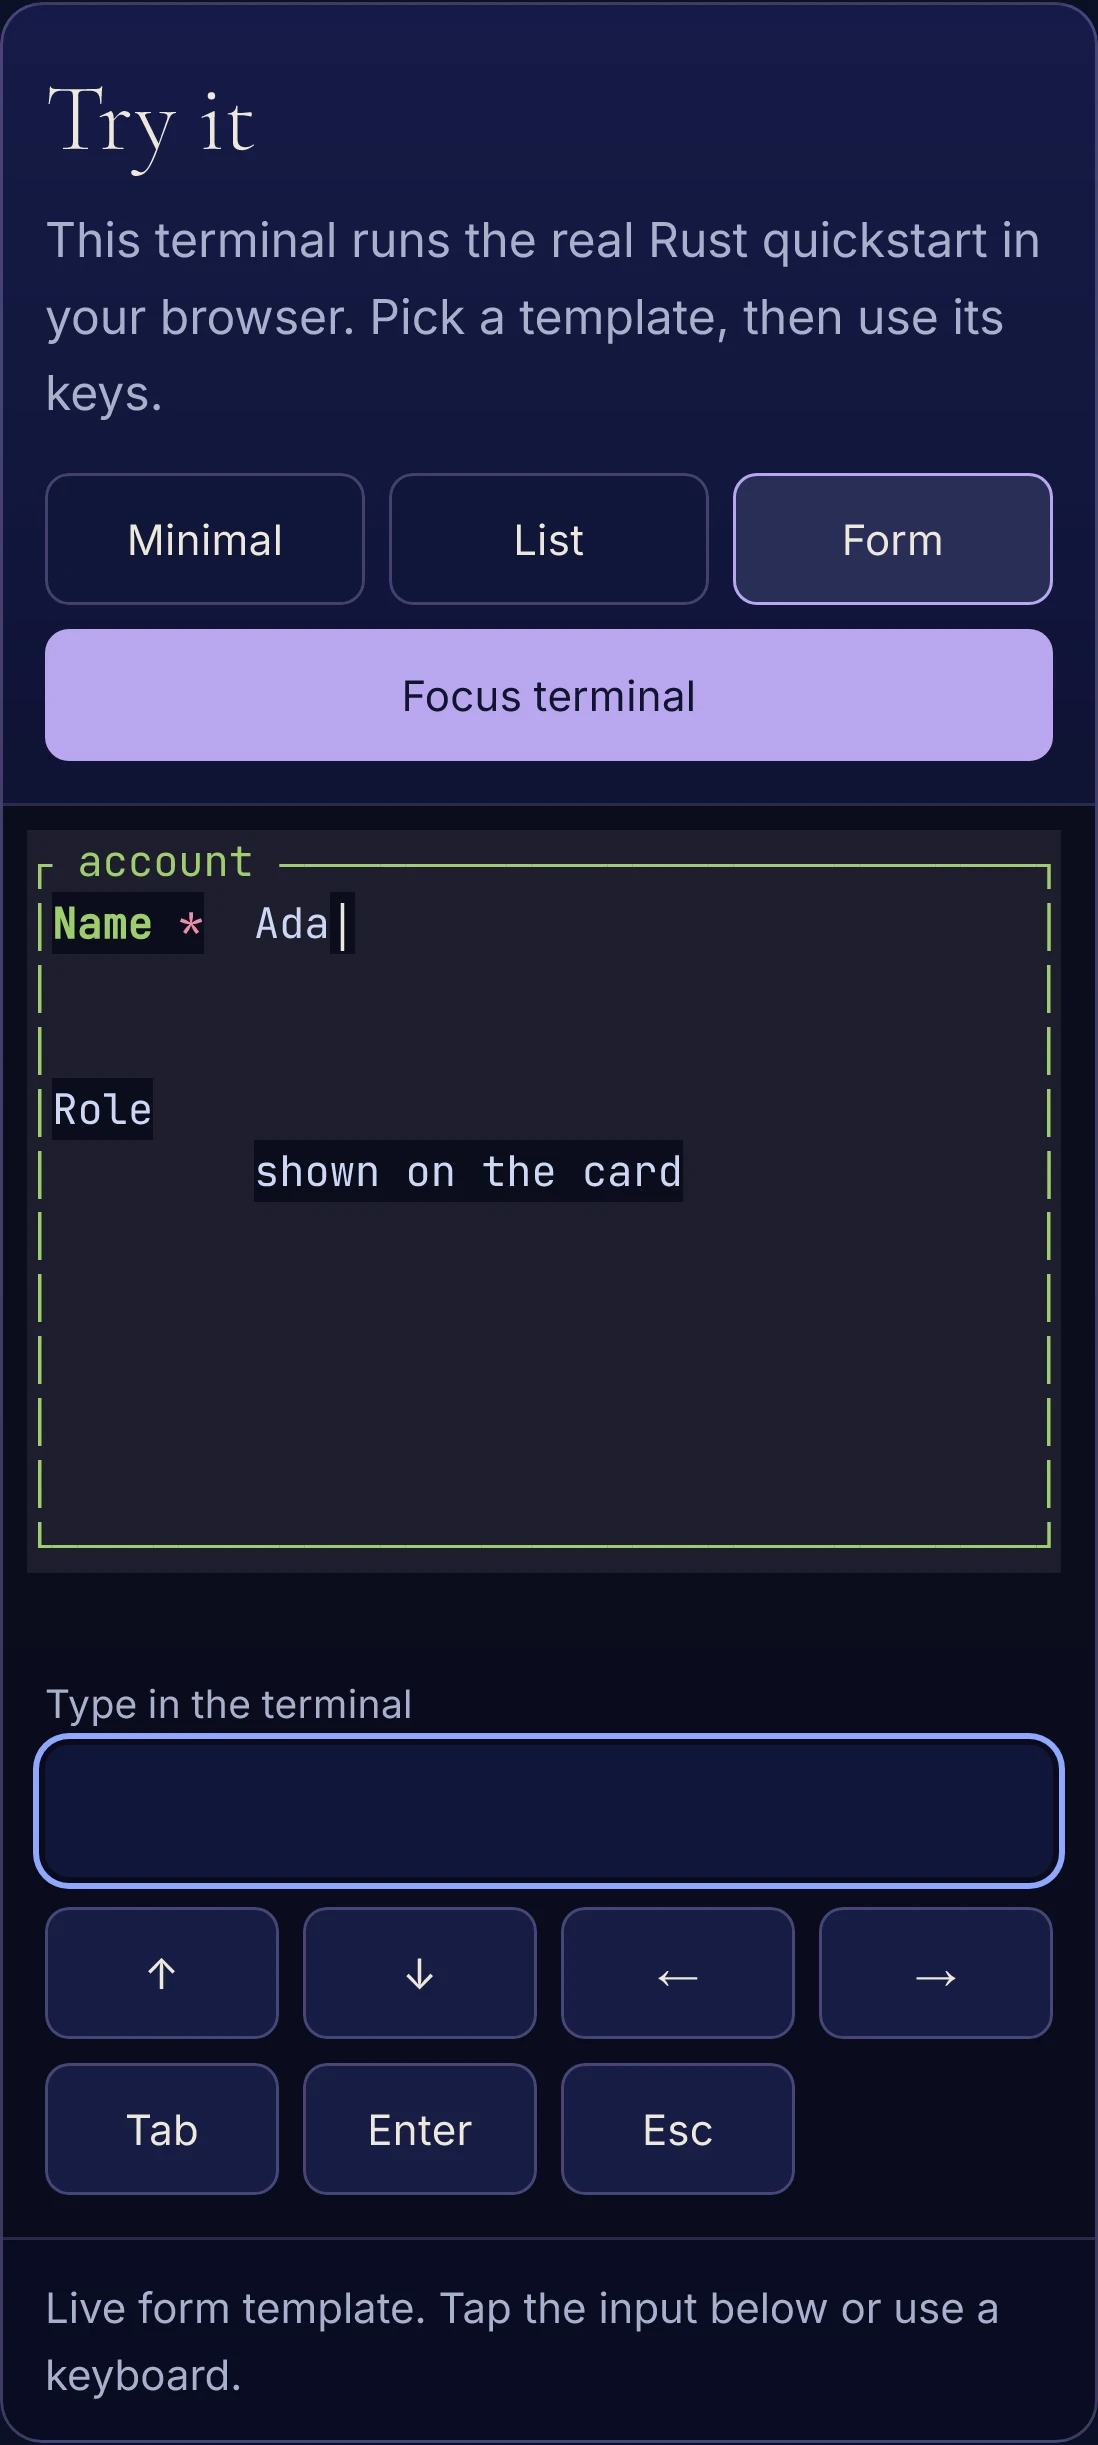
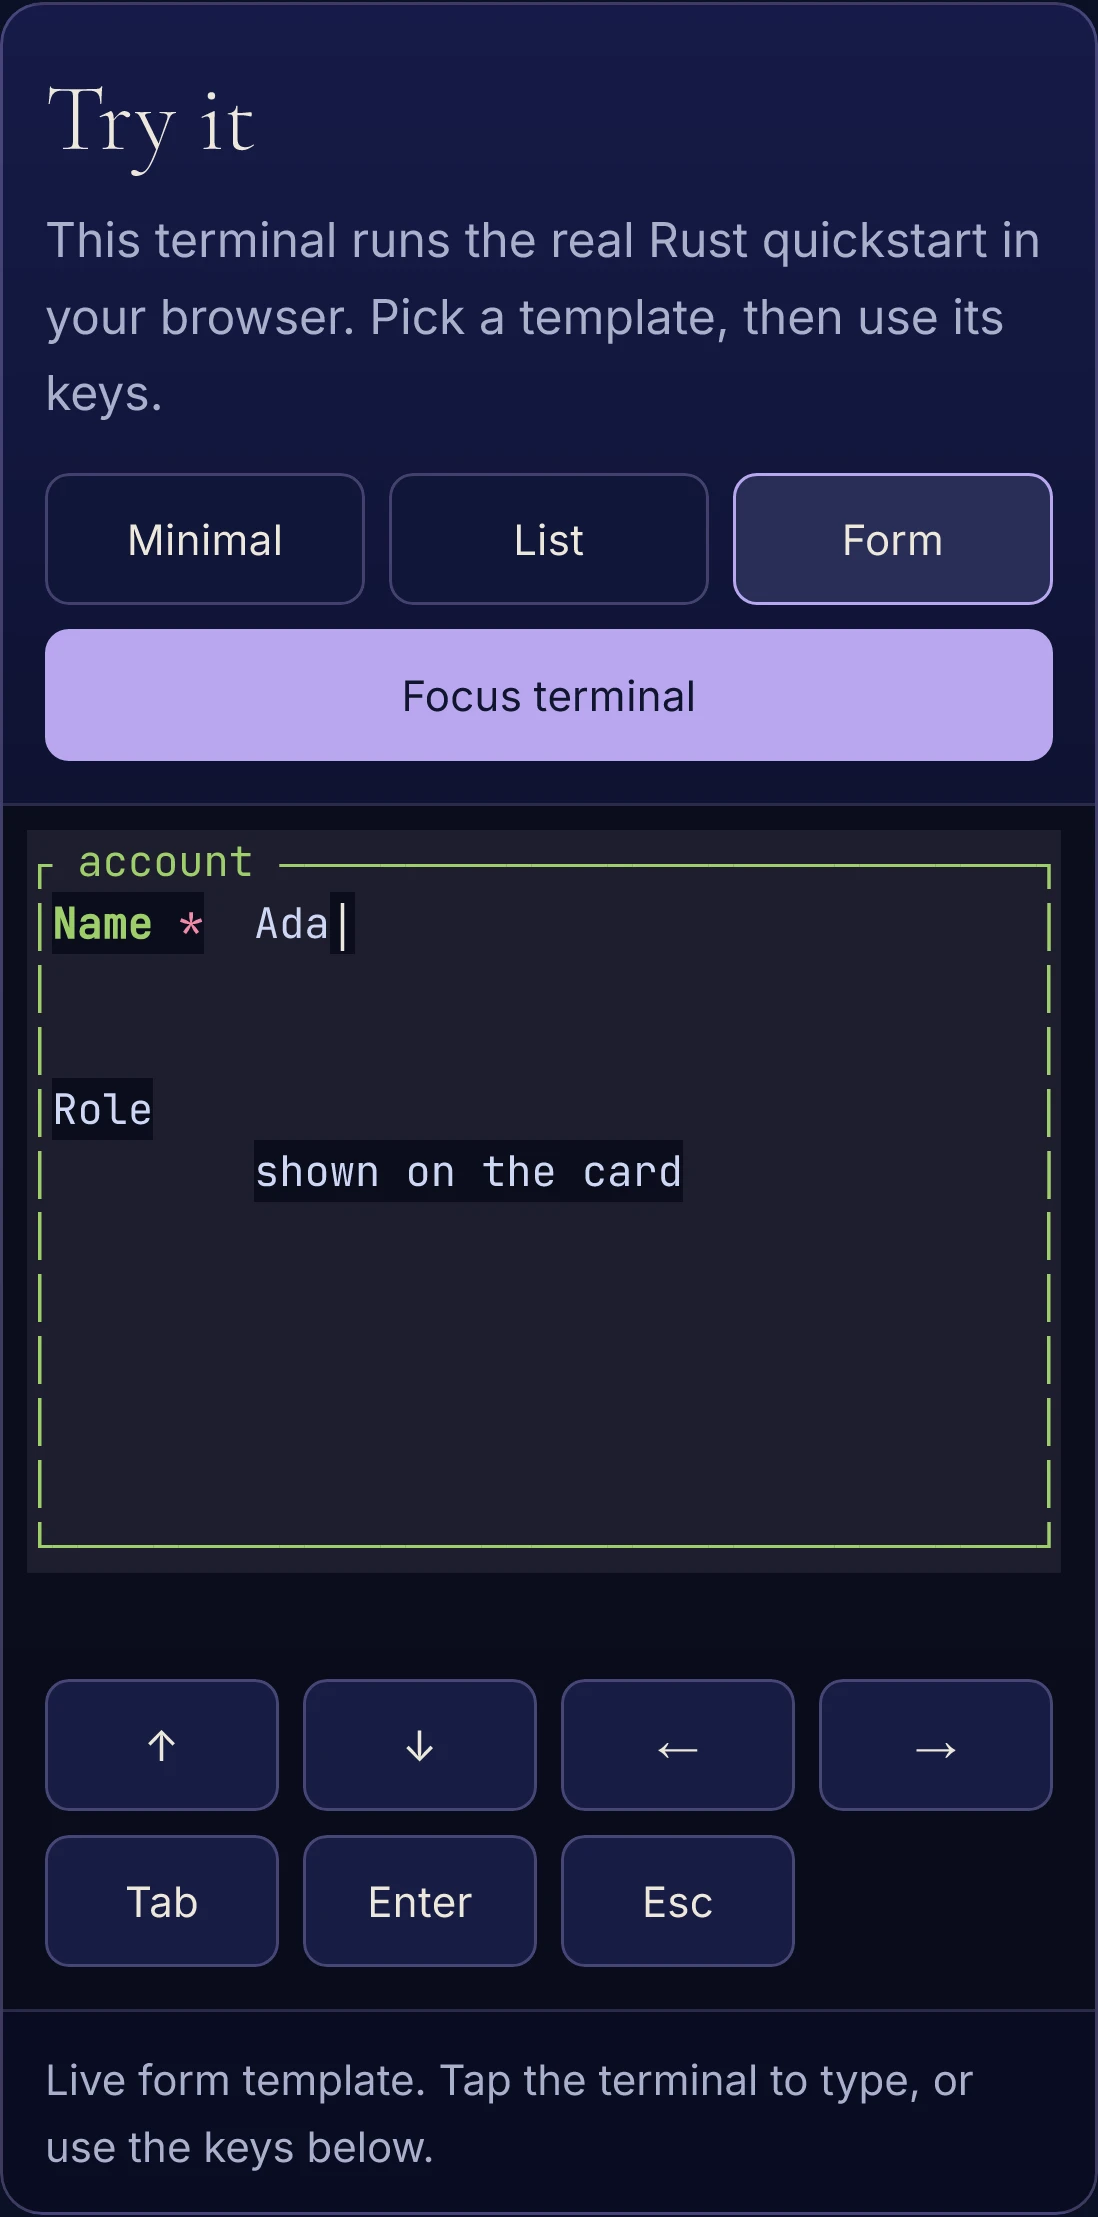
Fix iPhone sandbox controls

diff --git a/site/tests/mobile-sandbox.spec.js b/site/tests/mobile-sandbox.spec.js
@@ -19,6 +19,24 @@ async function expectTerminalToFit(panel) {
   expect(edges.screenRight).toBeLessThanOrEqual(edges.hostContentRight + 0.5);
 }
 
+async function expectInputProxyToBeHidden(input) {
+  const size = await input.evaluate((element) => {
+    const box = element.getBoundingClientRect();
+    return { width: box.width, height: box.height };
+  });
+  expect(size.width).toBeLessThanOrEqual(1);
+  expect(size.height).toBeLessThanOrEqual(1);
+}
+
+async function expectControlsAtVisualViewportBottom(page) {
+  await expect.poll(() => page.evaluate(() => {
+    const controlsBottom = document.querySelector('[data-sandbox-mobile]').getBoundingClientRect().bottom;
+    const keysBottom = document.querySelector('[data-sandbox-keys]').getBoundingClientRect().bottom;
+    const visualViewportBottom = window.visualViewport.offsetTop + window.visualViewport.height;
+    return controlsBottom <= visualViewportBottom + 1 && keysBottom <= visualViewportBottom + 1;
+  })).toBe(true);
+}
+
 test('phone input, composition, touch keys, and resizing preserve the session', async ({ page }, testInfo) => {
   await page.goto('/quickstart.html');
   const panel = page.locator('[data-sandbox]');
@@ -28,18 +46,19 @@ test('phone input, composition, touch keys, and resizing preserve the session', 
   await expect(panel.locator('.xterm')).toBeVisible();
   await panel.locator('[data-sandbox-template="form"]').tap();
   await expect(rows).toContainText('Ada');
-  await expect(input).toBeVisible();
+  await expectInputProxyToBeHidden(input);
   await expect(input).toHaveAttribute('autocomplete', 'off');
   await expect(input).toHaveAttribute('autocapitalize', 'none');
   await expect(input).toHaveAttribute('autocorrect', 'off');
   await expect(input).toHaveAttribute('spellcheck', 'false');
   await expectTerminalToFit(panel);
 
-  await input.tap();
-  await input.fill('Z');
+  await panel.locator('[data-sandbox-terminal]').tap({ position: { x: 20, y: 20 } });
+  await expect(input).toBeFocused();
+  await page.keyboard.type('Z');
   await expect(rows).toContainText('AdaZ');
 
-  await input.press('Backspace');
+  await page.keyboard.press('Backspace');
   await expect(rows).toContainText('Ada');
   await expect(rows).not.toContainText('AdaZ');
 
@@ -58,11 +77,11 @@ test('phone input, composition, touch keys, and resizing preserve the session', 
   await expect(rows).not.toContainText('AdaXX');
 
   await panel.locator('[data-sandbox-key="Tab"]').tap();
-  await input.fill('Dev');
+  await page.keyboard.type('Dev');
   await expect(rows).toContainText('Dev');
 
   await panel.locator('[data-sandbox-key="ArrowUp"]').tap();
-  await input.fill('Y');
+  await page.keyboard.type('Y');
   await expect(rows).toContainText('AdaXY');
 
   await panel.locator('[data-sandbox-key="Enter"]').tap();
@@ -74,12 +93,35 @@ test('phone input, composition, touch keys, and resizing preserve the session', 
   await page.evaluate(() => window.visualViewport?.dispatchEvent(new Event('resize')));
   if (testInfo.project.name === 'android-chrome') {
     await expect(panel).toHaveClass(/sandbox-keyboard-open/);
+    await expect(panel.locator('[data-sandbox-mobile]')).toHaveCSS('position', 'fixed');
+    await expectControlsAtVisualViewportBottom(page);
   }
   await expect.poll(() => panel.getAttribute('data-cols')).not.toBe(originalColumns);
   await expect(rows).toContainText('AdaXY');
   await expect(rows).toContainText('Dev');
   await expectTerminalToFit(panel);
   expect(await page.evaluate(() => document.body.scrollWidth <= window.innerWidth)).toBe(true);
+});
+
+test('iPhone keyboard keeps every touch key above the visual viewport edge', async ({ browserName, page }) => {
+  test.skip(browserName !== 'webkit', 'iPhone keyboard layout is a WebKit regression');
+
+  await page.goto('/quickstart.html');
+  const panel = page.locator('[data-sandbox]');
+  const input = panel.locator('[data-sandbox-input]');
+  const controls = panel.locator('[data-sandbox-mobile]');
+  const keys = panel.locator('[data-sandbox-keys]');
+
+  await panel.locator('[data-sandbox-template="form"]').tap();
+  await expect(input).toBeFocused();
+  const viewport = page.viewportSize();
+  await page.setViewportSize({ width: viewport.width, height: Math.max(320, viewport.height - 300) });
+  await page.evaluate(() => window.visualViewport.dispatchEvent(new Event('resize')));
+
+  await expect(panel).toHaveClass(/sandbox-keyboard-open/);
+  await expect(controls).toHaveCSS('position', 'fixed');
+  await expectControlsAtVisualViewportBottom(page);
+  await expect(keys.locator('button')).toHaveCount(7);
 });
 
 test('very narrow screens keep the static fallback', async ({ page }) => {

diff --git a/site/assets/quickstart-sandbox.js b/site/assets/quickstart-sandbox.js
@@ -34,6 +34,7 @@ if (panel) {
   let session;
   let selectedTemplate = 'minimal';
   let resizeFrame = 0;
+  let viewportFrame = 0;
   let inputQueue = Promise.resolve();
   let pendingInput = '';
   let composing = false;
@@ -89,13 +90,13 @@ if (panel) {
     panel.dataset.rows = String(terminal.rows);
   }
 
-  function showMobileInput() {
+  function showMobileControls() {
     mobileControls.hidden = false;
   }
 
   function focusTerminal() {
     if (mobileInputQuery.matches) {
-      showMobileInput();
+      showMobileControls();
       mobileInput.focus({ preventScroll: true });
     } else {
       terminal?.focus();
@@ -181,20 +182,43 @@ if (panel) {
   }
 
   function syncVisualViewport() {
-    const viewport = window.visualViewport;
-    if (!viewport) return;
-    panel.style.setProperty('--sandbox-visual-height', `${Math.round(viewport.height)}px`);
-    const inputFocused = document.activeElement === mobileInput;
-    if (inputFocused) expandedViewportHeight = Math.max(expandedViewportHeight, viewport.height);
-    else expandedViewportHeight = viewport.height;
-    const keyboardOpen = mobileInputQuery.matches
-      && inputFocused
-      && expandedViewportHeight - viewport.height > 120;
-    panel.classList.toggle('sandbox-keyboard-open', keyboardOpen);
-    scheduleFit();
-    if (keyboardOpen && document.activeElement === mobileInput) {
-      host.scrollIntoView({ block: 'nearest' });
-    }
+    cancelAnimationFrame(viewportFrame);
+    viewportFrame = requestAnimationFrame(() => {
+      const viewport = window.visualViewport;
+      if (!viewport) return;
+      panel.style.setProperty('--sandbox-visual-height', `${Math.round(viewport.height)}px`);
+      const inputFocused = document.activeElement === mobileInput;
+      const viewportBottom = viewport.offsetTop + viewport.height;
+      if (inputFocused) expandedViewportHeight = Math.max(expandedViewportHeight, viewportBottom);
+      else expandedViewportHeight = viewportBottom;
+      const keyboardHeight = Math.max(0, expandedViewportHeight - viewportBottom);
+      const keyboardInset = Math.max(0, window.innerHeight - viewportBottom);
+      const keyboardOpen = mobileInputQuery.matches
+        && inputFocused
+        && keyboardHeight > 120;
+      const panelBox = panel.getBoundingClientRect();
+      panel.style.setProperty('--sandbox-controls-left', `${Math.round(panelBox.left)}px`);
+      panel.style.setProperty('--sandbox-controls-width', `${Math.round(panelBox.width)}px`);
+      panel.style.setProperty('--sandbox-keyboard-inset', `${Math.round(keyboardInset)}px`);
+      panel.classList.toggle('sandbox-keyboard-open', keyboardOpen);
+      if (keyboardOpen) {
+        panel.style.setProperty(
+          '--sandbox-controls-height',
+          `${Math.ceil(mobileControls.getBoundingClientRect().height)}px`,
+        );
+        requestAnimationFrame(() => {
+          const settledViewport = window.visualViewport;
+          if (!settledViewport) return;
+          const settledBottom = settledViewport.offsetTop + settledViewport.height;
+          const settledInset = Math.max(0, window.innerHeight - settledBottom);
+          panel.style.setProperty('--sandbox-keyboard-inset', `${Math.round(settledInset)}px`);
+        });
+      }
+      scheduleFit();
+      if (keyboardOpen && document.activeElement === mobileInput) {
+        host.scrollIntoView({ block: 'nearest' });
+      }
+    });
   }
 
   async function selectTemplate(name, focus) {
@@ -221,7 +245,7 @@ if (panel) {
       await sendInput(data);
     }
     terminal.refresh(0, terminal.rows - 1);
-    status.textContent = `Live ${name} template. Tap the input below or use a keyboard.`;
+    status.textContent = `Live ${name} template. Tap the terminal to type, or use the keys below.`;
     if (focus) focusTerminal();
   }
 
@@ -257,7 +281,7 @@ if (panel) {
       host.hidden = false;
       startButton.disabled = false;
       startButton.textContent = 'Focus terminal';
-      showMobileInput();
+      showMobileControls();
 
       new ResizeObserver(scheduleFit).observe(host);
       syncVisualViewport();
@@ -316,13 +340,13 @@ if (panel) {
   host.addEventListener('pointerdown', (event) => {
     if (!mobileInputQuery.matches) return;
     event.preventDefault();
-    showMobileInput();
+    showMobileControls();
     mobileInput.focus({ preventScroll: true });
   }, { capture: true });
 
   startButton.addEventListener('click', () => {
     if (mobileInputQuery.matches) {
-      showMobileInput();
+      showMobileControls();
       mobileInput.focus({ preventScroll: true });
       void boot(false);
     } else {

diff --git a/site/quickstart.html b/site/quickstart.html
@@ -37,14 +37,17 @@ h2{font:600 36px var(--serif);margin-bottom:8px}
 .sandbox [hidden]{display:none!important}
 .sandbox-terminal{height:340px}
 .sandbox-terminal>.xterm{height:100%;padding:12px}
-.sandbox-mobile{display:none;padding:12px 22px 16px;border-bottom:1px solid var(--line);background:rgba(10,13,28,.72)}
-.sandbox-mobile label{display:block;margin-bottom:6px;color:var(--ink2);font:500 13px var(--sans)}
-.sandbox-input{width:100%;min-height:44px;border:1px solid var(--edge);border-radius:8px;padding:9px 12px;background:#111638;color:var(--ink);font:16px var(--mono)}
-.sandbox-input:focus{outline:2px solid var(--peri);outline-offset:2px;border-color:transparent}
-.sandbox-keys{display:grid;grid-template-columns:repeat(4,minmax(44px,1fr));gap:8px;margin-top:10px}
+.sandbox-mobile{display:none;position:relative;padding:12px 22px 16px;border-bottom:1px solid var(--line);background:rgba(10,13,28,.96)}
+.sandbox-mobile label,.sandbox-input{position:absolute;width:1px;height:1px;min-width:0;min-height:0;padding:0;border:0;overflow:hidden;clip-path:inset(50%);opacity:0;white-space:nowrap}
+.sandbox-input{font:16px var(--mono)}
+.sandbox-input:focus{outline:0}
+.sandbox-keys{display:grid;grid-template-columns:repeat(4,minmax(44px,1fr));gap:8px}
 .sandbox-keys button{min-width:44px;min-height:44px;border:1px solid var(--edge);border-radius:8px;background:#171c43;color:var(--ink);font:500 14px var(--sans);touch-action:manipulation}
 .sandbox-keys button:focus-visible{outline:2px solid var(--peri);outline-offset:2px}
 .sandbox-status{min-height:48px;padding:11px 22px;font-size:14px}
+.sandbox-keyboard-open{overflow:visible;padding-bottom:var(--sandbox-controls-height,112px)}
+.sandbox-keyboard-open .sandbox-stage{scroll-margin-bottom:calc(var(--sandbox-controls-height,112px) + 8px)}
+.sandbox-keyboard-open .sandbox-mobile{position:fixed;z-index:20;left:var(--sandbox-controls-left,0);width:var(--sandbox-controls-width,100%);bottom:var(--sandbox-keyboard-inset,0);padding:8px 14px max(8px,env(safe-area-inset-bottom));border:1px solid var(--edge);border-bottom:0;border-radius:12px 12px 0 0;box-shadow:0 -8px 24px rgba(4,6,18,.5)}
 @media(max-width:767px),(pointer:coarse){.sandbox-mobile{display:block}}
 @media(max-width:640px){.nav .bar{height:68px;padding:0 16px}.logo{font-size:25px}.nav a.back{font-size:14px}main{min-width:0;padding:32px 12px 56px}h1{font-size:48px}.lede{margin-bottom:28px}.card{padding:16px;margin-bottom:20px}.sandbox{padding:0}.sandbox-copy{padding:18px 14px 0}.sandbox-copy h2{font-size:32px}.sandbox-toolbar{display:grid;grid-template-columns:repeat(3,minmax(0,1fr));padding:14px;gap:8px}.sandbox-toolbar button{padding:8px 6px}.sandbox-toolbar .sandbox-start{grid-column:1/-1;width:100%;margin-left:0}.sandbox-stage,.sandbox-terminal{min-height:280px;height:280px}.sandbox-terminal>.xterm{padding:8px}.sandbox-mobile{padding:12px 14px 14px}.sandbox-status{padding:11px 14px}.sandbox-keyboard-open .sandbox-stage{min-height:180px}.sandbox-keyboard-open .sandbox-terminal{min-height:180px;height:clamp(180px,calc(var(--sandbox-visual-height,100vh) - 250px),280px)}}
 @media(max-width:319px){.sandbox-toolbar,.sandbox-mobile{display:none!important}.sandbox-stage{min-height:0}.sandbox-status{min-height:0}.sandbox-copy p{font-size:14px}}
@@ -81,7 +84,7 @@ footer a{text-decoration:none;min-height:44px;display:inline-flex;align-items:ce
   <div class="sandbox-terminal" data-sandbox-terminal aria-label="Live Lunatui terminal" hidden></div>
  </div>
  <div class="sandbox-mobile" data-sandbox-mobile hidden>
-  <label for="sandbox-input">Type in the terminal</label>
+  <label for="sandbox-input">Terminal text input</label>
   <input class="sandbox-input" id="sandbox-input" data-sandbox-input type="text" autocomplete="off" autocapitalize="none" autocorrect="off" spellcheck="false" enterkeyhint="enter">
   <div class="sandbox-keys" data-sandbox-keys role="toolbar" aria-label="Terminal keys">
    <button type="button" data-sandbox-key="ArrowUp" aria-label="Up arrow">↑</button>
